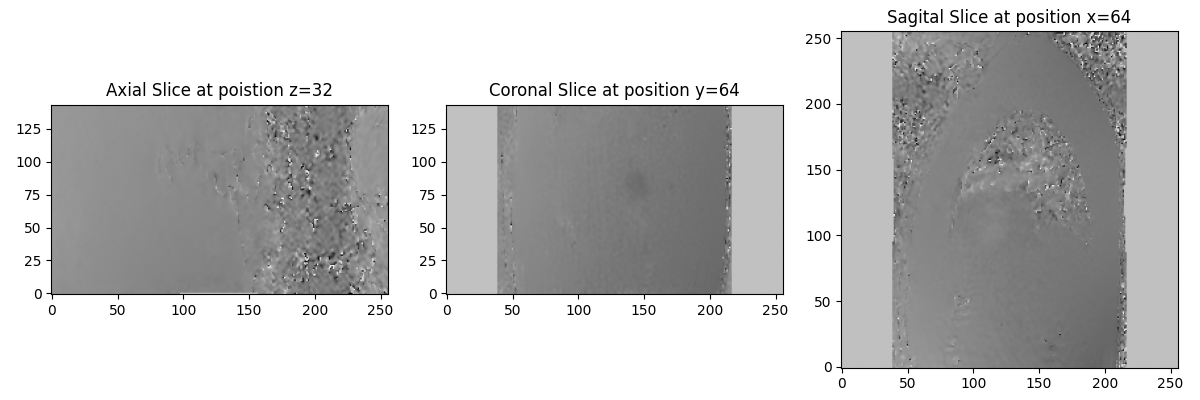
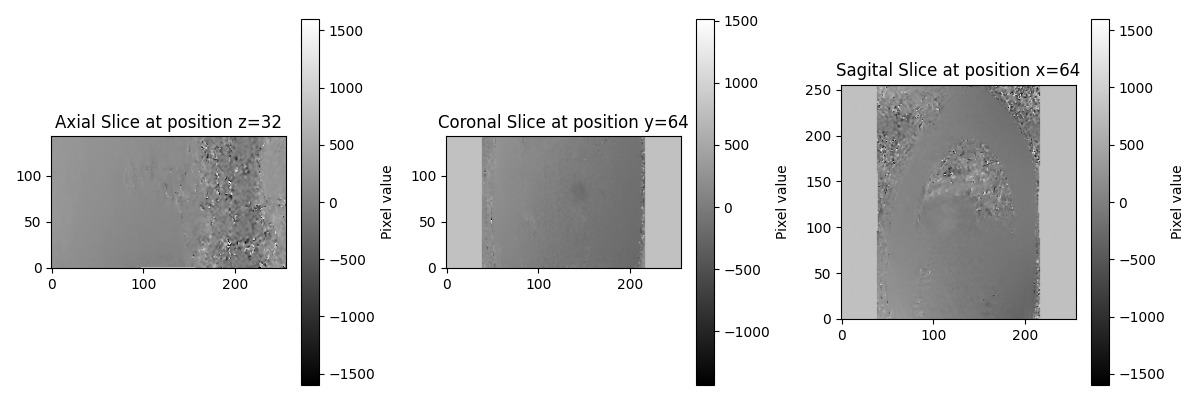
Improvement of the quality of visualisation of NIfTI with scale added

diff --git a/VisualizeNIfTI.py b/VisualizeNIfTI.py
@@ -1,11 +1,13 @@
 import nibabel as nib
 import matplotlib.pyplot as plt
+from mpl_toolkits.mplot3d import Axes3D
+import numpy as np
 
 def visualize_nifti_slices(nii_gz_path, time_frame, position_x, position_y, position_z):
     """
     nii_gz_path: path to the .nii.gz file
     time_frame: time frame to be visualized (value between 0 and 49, because there are 49 time frames)
-    position_x: position of the sagittal slice
+    position_x: position of the sagittal slice (value between 0 and 143, because there are 144 slices in each direction)
     """
     img = nib.load(nii_gz_path) # loading the NIfTI file
     data = img.get_fdata() # transform the image to a numpy array
@@ -18,7 +20,7 @@ def visualize_nifti_slices(nii_gz_path, time_frame, position_x, position_y, posi
     number_of_frames = data.shape[3]
     print(f"Number of time frames: {number_of_frames}")
     data = data[:, :, :, time_frame] # choose time frame to be viualized
-    print(data[position_x,:,:])
+    #print(data[position_x,:,:])
     print(f"Image shape: {data.shape}")
 
     # We only take one slice in each direction at the position asked
@@ -27,18 +29,21 @@ def visualize_nifti_slices(nii_gz_path, time_frame, position_x, position_y, posi
     slice_z = data[:, :, position_z] # axial slice
 
     fig, axes = plt.subplots(1, 3, figsize=(12, 4))
-    axes[0].imshow(slice_x.T, cmap="gray", origin="lower")
-    axes[0].set_title(f"Axial Slice at poistion z={position_z}")
+    axial_view = axes[0].imshow(slice_x.T, cmap="gray", origin="lower")
+    axes[0].set_title(f"Axial Slice at position z={position_z}") # the pixels on the image are velocities in the direction of z
 
-    axes[1].imshow(slice_y.T, cmap="gray", origin="lower")
-    axes[1].set_title(f"Coronal Slice at position y={position_y}")
+    coronal_view = axes[1].imshow(slice_y.T, cmap="gray", origin="lower")
+    axes[1].set_title(f"Coronal Slice at position y={position_y}") # the pixels on the image are velocities in the direction of x
 
-    axes[2].imshow(slice_z.T, cmap="gray", origin="lower")
-    axes[2].set_title(f"Sagital Slice at position x={position_x}")
+    sagital_view = axes[2].imshow(slice_z.T, cmap="gray", origin="lower")
+    axes[2].set_title(f"Sagital Slice at position x={position_x}") # the pixels on the image are velocities in the direction of y
 
+    fig.colorbar(axial_view, ax=axes[0], label="Pixel value")
+    fig.colorbar(coronal_view, ax=axes[1], label="Pixel value")
+    fig.colorbar(sagital_view, ax=axes[2], label="Pixel value")
     plt.tight_layout()
     plt.show()
 
 nii_path = "Dataset/IRM_BAO_069_1_4D_NIfTI/IRM_BAO_069_1_4D_NIfTI_e3.nii.gz"
-visualize_nifti_slices(nii_path, time_frame=5, position_x=64, position_y=64, position_z=32)
+#visualize_nifti_slices(nii_path, time_frame=5, position_x=64, position_y=64, position_z=32)
 #visualize_nifti_slices(nii_path, time_frame=40, position_x=64, position_y=64, position_z=32)
